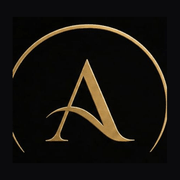
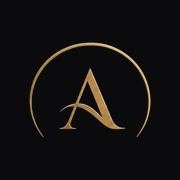
fix: the mark was stretched and cropped short — cut it from the pixels
The ring in the supplied lockup measures 447x350. It was cut to 440x415 by
hand, which stretched it 19% vertically and pushed the open ends of the arc
off the bottom edge — the logo rendered as a broken circle everywhere it
appeared, including the favicon.

scripts/gen-logo.mjs now finds each element's bounding box from the luminance
profile instead, so the ratio is right by construction and a new source file
is one command away. Two details it gets right that the hand cut did not:

- The ink threshold is 24, not 70. The lower arc of the ring is *dim* gold,
  below 70, which is exactly why the measured box stopped short of it.
- Black is keyed to alpha with a floor at 14. Straight luminance turned the
  JPEG's block noise into alpha 2-12 across the whole crop, and since the crop
  is rectangular that showed as a faint box hanging behind the mark in the nav.

The mark was also given square boxes at all eight call sites. At 1.25:1 with
object-contain that fits to the WIDTH, so `h-9 w-9` drew it at 36x29 in a 36px
slot — a fifth of the height thrown away, and most of why it read small. Every
site is now a height with `w-auto`, and the scale steps go up one notch.

Favicons are cut from the same corrected mark, so a bad crop can no longer
survive in the tab after the on-page logo is fixed.

Verified at 1440 and 390: full ring, no box, correct proportions.

diff --git a/src/components/brand/logo.tsx b/src/components/brand/logo.tsx
@@ -27,13 +27,21 @@ export function Logo({
   /** Vertical lockup — used in the footer and on the auth pages. */
   stacked?: boolean;
 }) {
+  /**
+   * Both `mark` and `wordImg` are HEIGHTS with `w-auto`. The width follows from
+   * each asset's own ratio, so the lockup keeps the proportions it was drawn
+   * with and neither piece can be squashed by a box that disagrees with it.
+   *
+   * The mark used to be given a square box (`h-9 w-9`). The ring is 1.25:1, so
+   * `object-contain` fitted it to the box's WIDTH and it drew at 36x29 inside a
+   * 36x36 slot — a fifth of the height thrown away, which is most of why it
+   * looked small and timid in the nav.
+   */
   const dims = {
-    // `wordImg` is a height; the width follows from the asset's own ratio, so
-    // the lockup keeps the proportions it was drawn with.
-    sm: { mark: "h-7 w-7", wordImg: "h-[0.7rem] w-auto", sub: "text-[0.5rem] tracking-[0.34em]" },
-    md: { mark: "h-9 w-9", wordImg: "h-[0.95rem] w-auto", sub: "text-[0.5625rem] tracking-[0.36em]" },
-    lg: { mark: "h-14 w-14", wordImg: "h-[1.4rem] w-auto", sub: "text-[0.6875rem] tracking-[0.38em]" },
-    xl: { mark: "h-24 w-24", wordImg: "h-[2.4rem] w-auto", sub: "text-xs tracking-[0.4em]" },
+    sm: { mark: "h-8 w-auto", wordImg: "h-[0.8rem] w-auto", sub: "text-[0.5rem] tracking-[0.34em]" },
+    md: { mark: "h-11 w-auto", wordImg: "h-[1.1rem] w-auto", sub: "text-[0.625rem] tracking-[0.36em]" },
+    lg: { mark: "h-16 w-auto", wordImg: "h-[1.6rem] w-auto", sub: "text-[0.75rem] tracking-[0.38em]" },
+    xl: { mark: "h-28 w-auto", wordImg: "h-[2.8rem] w-auto", sub: "text-[0.8125rem] tracking-[0.4em]" },
   }[size];
 
   const inner = (
@@ -48,7 +56,12 @@ export function Logo({
         The real mark, keyed off its black backing so it sits on glass, ink or
         the invoice's paper without a visible rectangle.
 
-        Largest use is 96px (xl) against a 440px asset, so it is oversampled
+        These dimensions come from scripts/gen-logo.mjs and must track it. The
+        first cut declared 440x415 against artwork whose ring measures 479x382,
+        which stretched it 19% vertically and pushed the open ends of the arc
+        off the bottom edge — the logo rendered visibly broken.
+
+        Largest use is 112px (xl) against a 479px asset, so it is oversampled
         everywhere it appears, including at devicePixelRatio 3. The supplied
         logo is a 788px JPEG, and that is the ceiling — a genuinely
         resolution-independent mark needs the vector original.
@@ -56,8 +69,8 @@ export function Logo({
       <Image
         src="/logo-mark.png"
         alt=""
-        width={440}
-        height={415}
+        width={479}
+        height={382}
         priority
         className={cn(dims.mark, "shrink-0 object-contain")}
       />
@@ -73,8 +86,8 @@ export function Logo({
           <Image
             src="/logo-wordmark.png"
             alt="Avenues"
-            width={680}
-            height={92}
+            width={616}
+            height={95}
             priority
             className={cn(dims.wordImg, "object-contain")}
           />

diff --git a/src/components/landing/brand-story.tsx b/src/components/landing/brand-story.tsx
@@ -23,7 +23,7 @@ export function BrandStory() {
       <div className="shell grid items-center gap-14 lg:grid-cols-12 lg:gap-10">
         <Reveal className="lg:col-span-5">
           <div className="relative flex h-full min-h-[16rem] items-center justify-center">
-            <BrandMark className="h-40 w-40 opacity-90 sm:h-52 sm:w-52" />
+            <BrandMark className="h-40 w-auto opacity-90 sm:h-52" />
             <div
               aria-hidden="true"
               className="pointer-events-none absolute inset-0"

diff --git a/src/components/auth/auth-shell.tsx b/src/components/auth/auth-shell.tsx
@@ -34,7 +34,7 @@ export function AuthShell({
       <div className="shell relative z-[2] mx-auto w-full max-w-md">
         <div className="text-center">
           <Link href="/" aria-label="Avenues — home" className="inline-flex">
-            <BrandMark className="h-12 w-12" />
+            <BrandMark className="h-12 w-auto" />
           </Link>
           <p className="micro-label-gold mt-7">{eyebrow}</p>
           <h1 className="mt-4 font-display text-d3 font-light text-bone">{title}</h1>

diff --git a/src/app/(store)/about/page.tsx b/src/app/(store)/about/page.tsx
@@ -47,7 +47,7 @@ export default function AboutPage() {
         />
         <div className="shell relative z-[2] mx-auto max-w-3xl text-center">
           <Reveal>
-            <BrandMark className="mx-auto h-16 w-16" />
+            <BrandMark className="mx-auto h-16 w-auto" />
             <p className="micro-label-gold mt-8">Our story</p>
             <h1 className="mt-5 font-display text-d2 font-light text-bone">
               Perfume in India deserved better than the in-between

diff --git a/src/components/admin/admin-nav.tsx b/src/components/admin/admin-nav.tsx
@@ -47,7 +47,7 @@ export function AdminNav({ pendingBadges }: { pendingBadges: Record<string, numb
                  lg:inset-y-0 lg:left-0 lg:w-52 lg:border-r lg:border-t-0"
     >
       <div className="hidden items-center gap-2.5 px-5 pb-2 pt-6 lg:flex">
-        <BrandMark className="h-7 w-7" />
+        <BrandMark className="h-7 w-auto" />
         <span className="font-sans text-[0.6875rem] uppercase tracking-label text-stone">
           Back of house
         </span>

diff --git a/src/components/brand/brand-mark.tsx b/src/components/brand/brand-mark.tsx
@@ -29,8 +29,10 @@ export function BrandMark({
     <Image
       src="/logo-mark.png"
       alt={alt}
-      width={440}
-      height={415}
+      // Intrinsic size of the asset scripts/gen-logo.mjs produces. Keep in step
+      // with it and with logo.tsx; a wrong ratio here silently distorts the ring.
+      width={479}
+      height={382}
       priority={priority}
       aria-hidden={alt ? undefined : true}
       className={cn("object-contain", className)}

diff --git a/src/app/(store)/checkout/mock-pay/page.tsx b/src/app/(store)/checkout/mock-pay/page.tsx
@@ -91,7 +91,7 @@ function MockPayInner() {
         </div>
 
         <div className="card p-8 text-center">
-          <BrandMark className="mx-auto h-10 w-10" />
+          <BrandMark className="mx-auto h-10 w-auto" />
           <p className="micro-label mt-6">Order {orderNumber}</p>
           <p className="mt-3 font-display text-5xl font-light text-bone">
             {formatPaise(amountPaise)}

diff --git a/src/app/not-found.tsx b/src/app/not-found.tsx
@@ -20,7 +20,7 @@ export default function NotFound() {
 
       <div className="relative z-[2]">
         <Link href="/" aria-label="Avenues — home" className="inline-flex">
-          <BrandMark className="h-14 w-14" />
+          <BrandMark className="h-14 w-auto" />
         </Link>
 
         <p className="micro-label-gold mt-10">Four-oh-four</p>

diff --git a/src/components/landing/hero-media.tsx b/src/components/landing/hero-media.tsx
@@ -90,7 +90,7 @@ export function HeroMedia({
             }}
           />
           <div className="absolute inset-0 flex items-center justify-end pr-[8vw]">
-            <BrandMark className="h-[46vh] w-[46vh] opacity-[0.11]" />
+            <BrandMark className="h-[46vh] w-auto opacity-[0.11]" />
           </div>
         </div>
       )}
